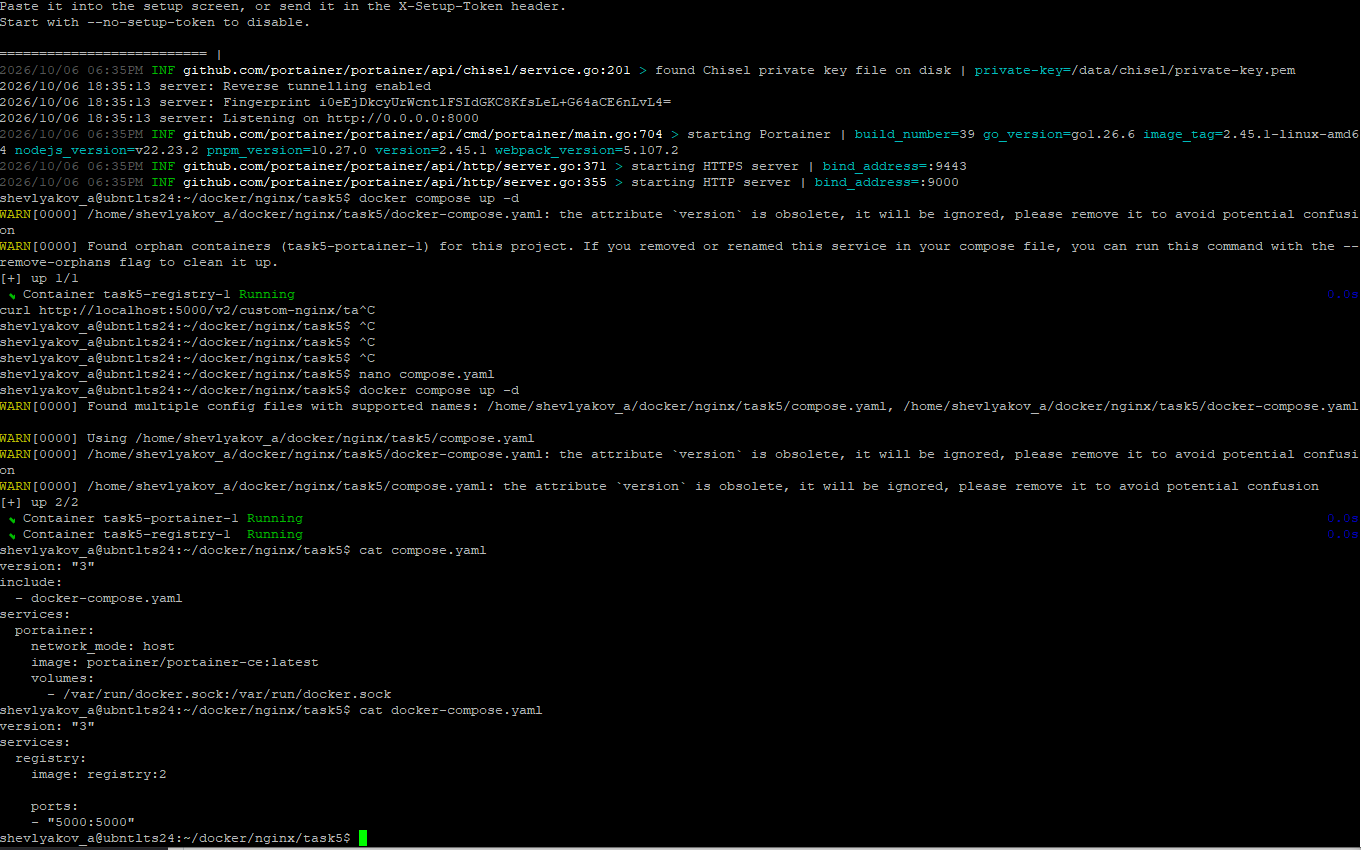
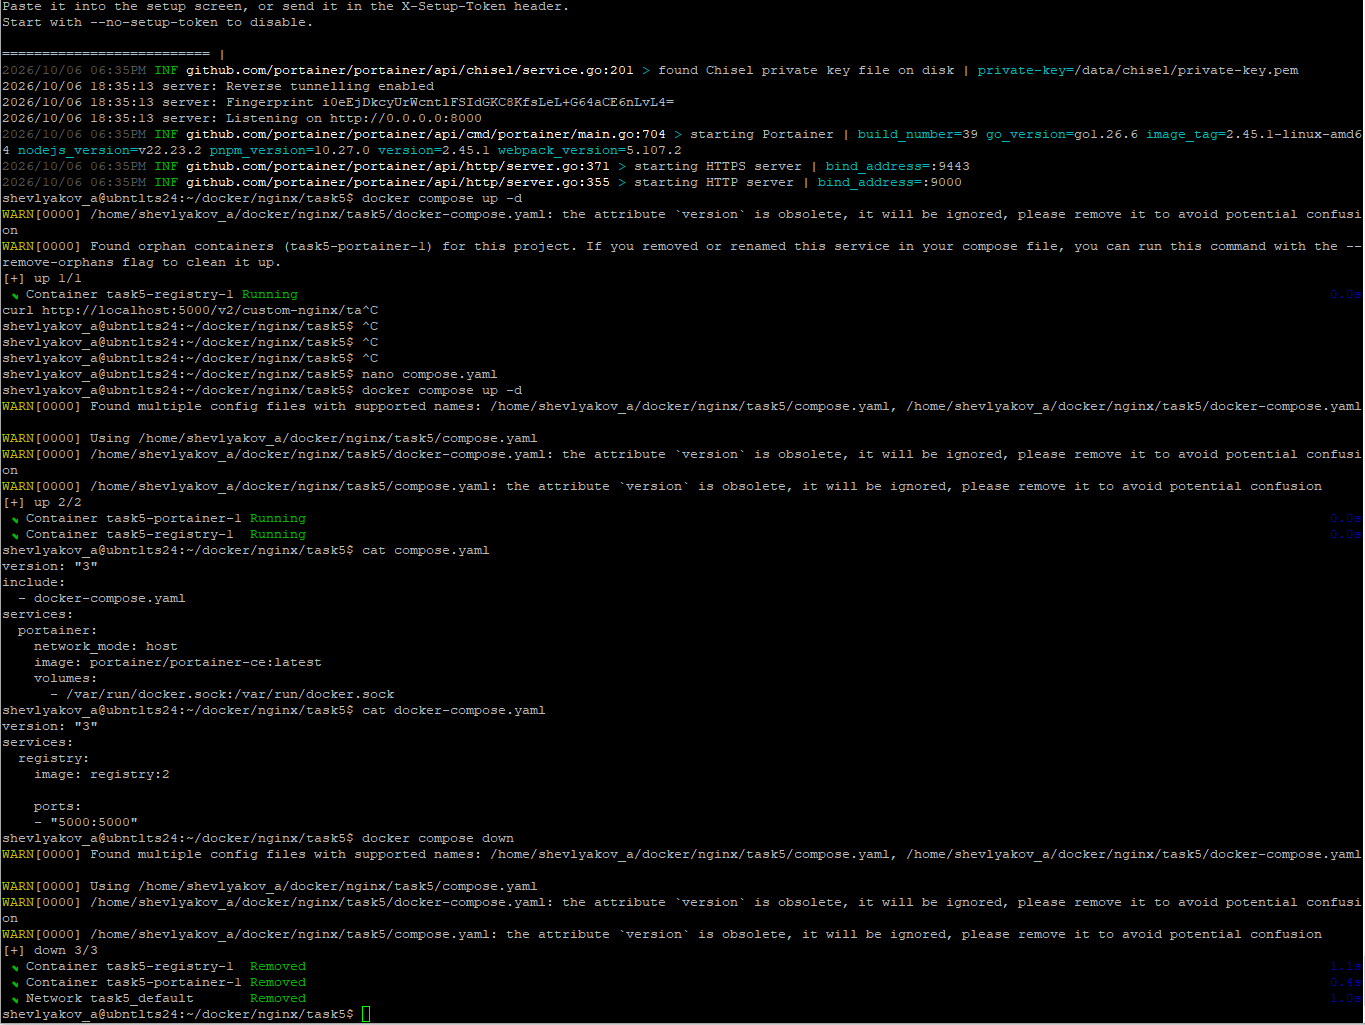
commit 2

diff --git a/README.md b/README.md
@@ -41,7 +41,9 @@ DISTRIB_DESCRIPTION="Ubuntu 24.04.5 LTS"
 ```
 
 https://hub.docker.com/repository/docker/staint/custom-nginx/general
+
 ![image](https://github.com/staintru/Docker-nginx/blob/main/1.png)
+
 ![image](https://github.com/staintru/Docker-nginx/blob/main/2.png)
 
 ## Задача 2
@@ -83,8 +85,11 @@ docker rename "Shevlyakov_AE-custom-nginx-t2" custom-nginx-t2
 ### Решение
 
 ![image](https://github.com/staintru/Docker-nginx/blob/main/4.png)
+
 Сменив внутренний порт в контейнере с 80 на 81 и перечитав конфигурацию NGINX начал работать на новом 81 порту в контейнере, но мапинг внешнего 8080 порта мы не меняли, он по прежнему ссылается на 80 порт а там ничего нет.
+
 ![image](https://github.com/staintru/Docker-nginx/blob/main/5.png)
+
 ![image](https://github.com/staintru/Docker-nginx/blob/main/6.png)
 
 ## Задача 4
@@ -157,6 +162,11 @@ services:
 ![image](https://github.com/staintru/Docker-nginx/blob/main/8.png)
 ![image](https://github.com/staintru/Docker-nginx/blob/main/9.png)
 ![image](https://github.com/staintru/Docker-nginx/blob/main/11.png)
+
+В старых версиях Docker Compose это поле было обязательным — оно указывало, какую версию формата Compose использовать.
+В современном Docker Compose (команда docker compose без дефиса) это поле больше не нужно. Docker Compose сам определяет спецификацию автоматически по структуре файла. Если поле version осталось — оно просто игнорируется, но при каждом запуске выводится это предупреждение .
+Нужно просто удалить строку version: '...' из файла docker-compose.yaml
+
 ![image](https://github.com/staintru/Docker-nginx/blob/main/10.png)
 
 ---
